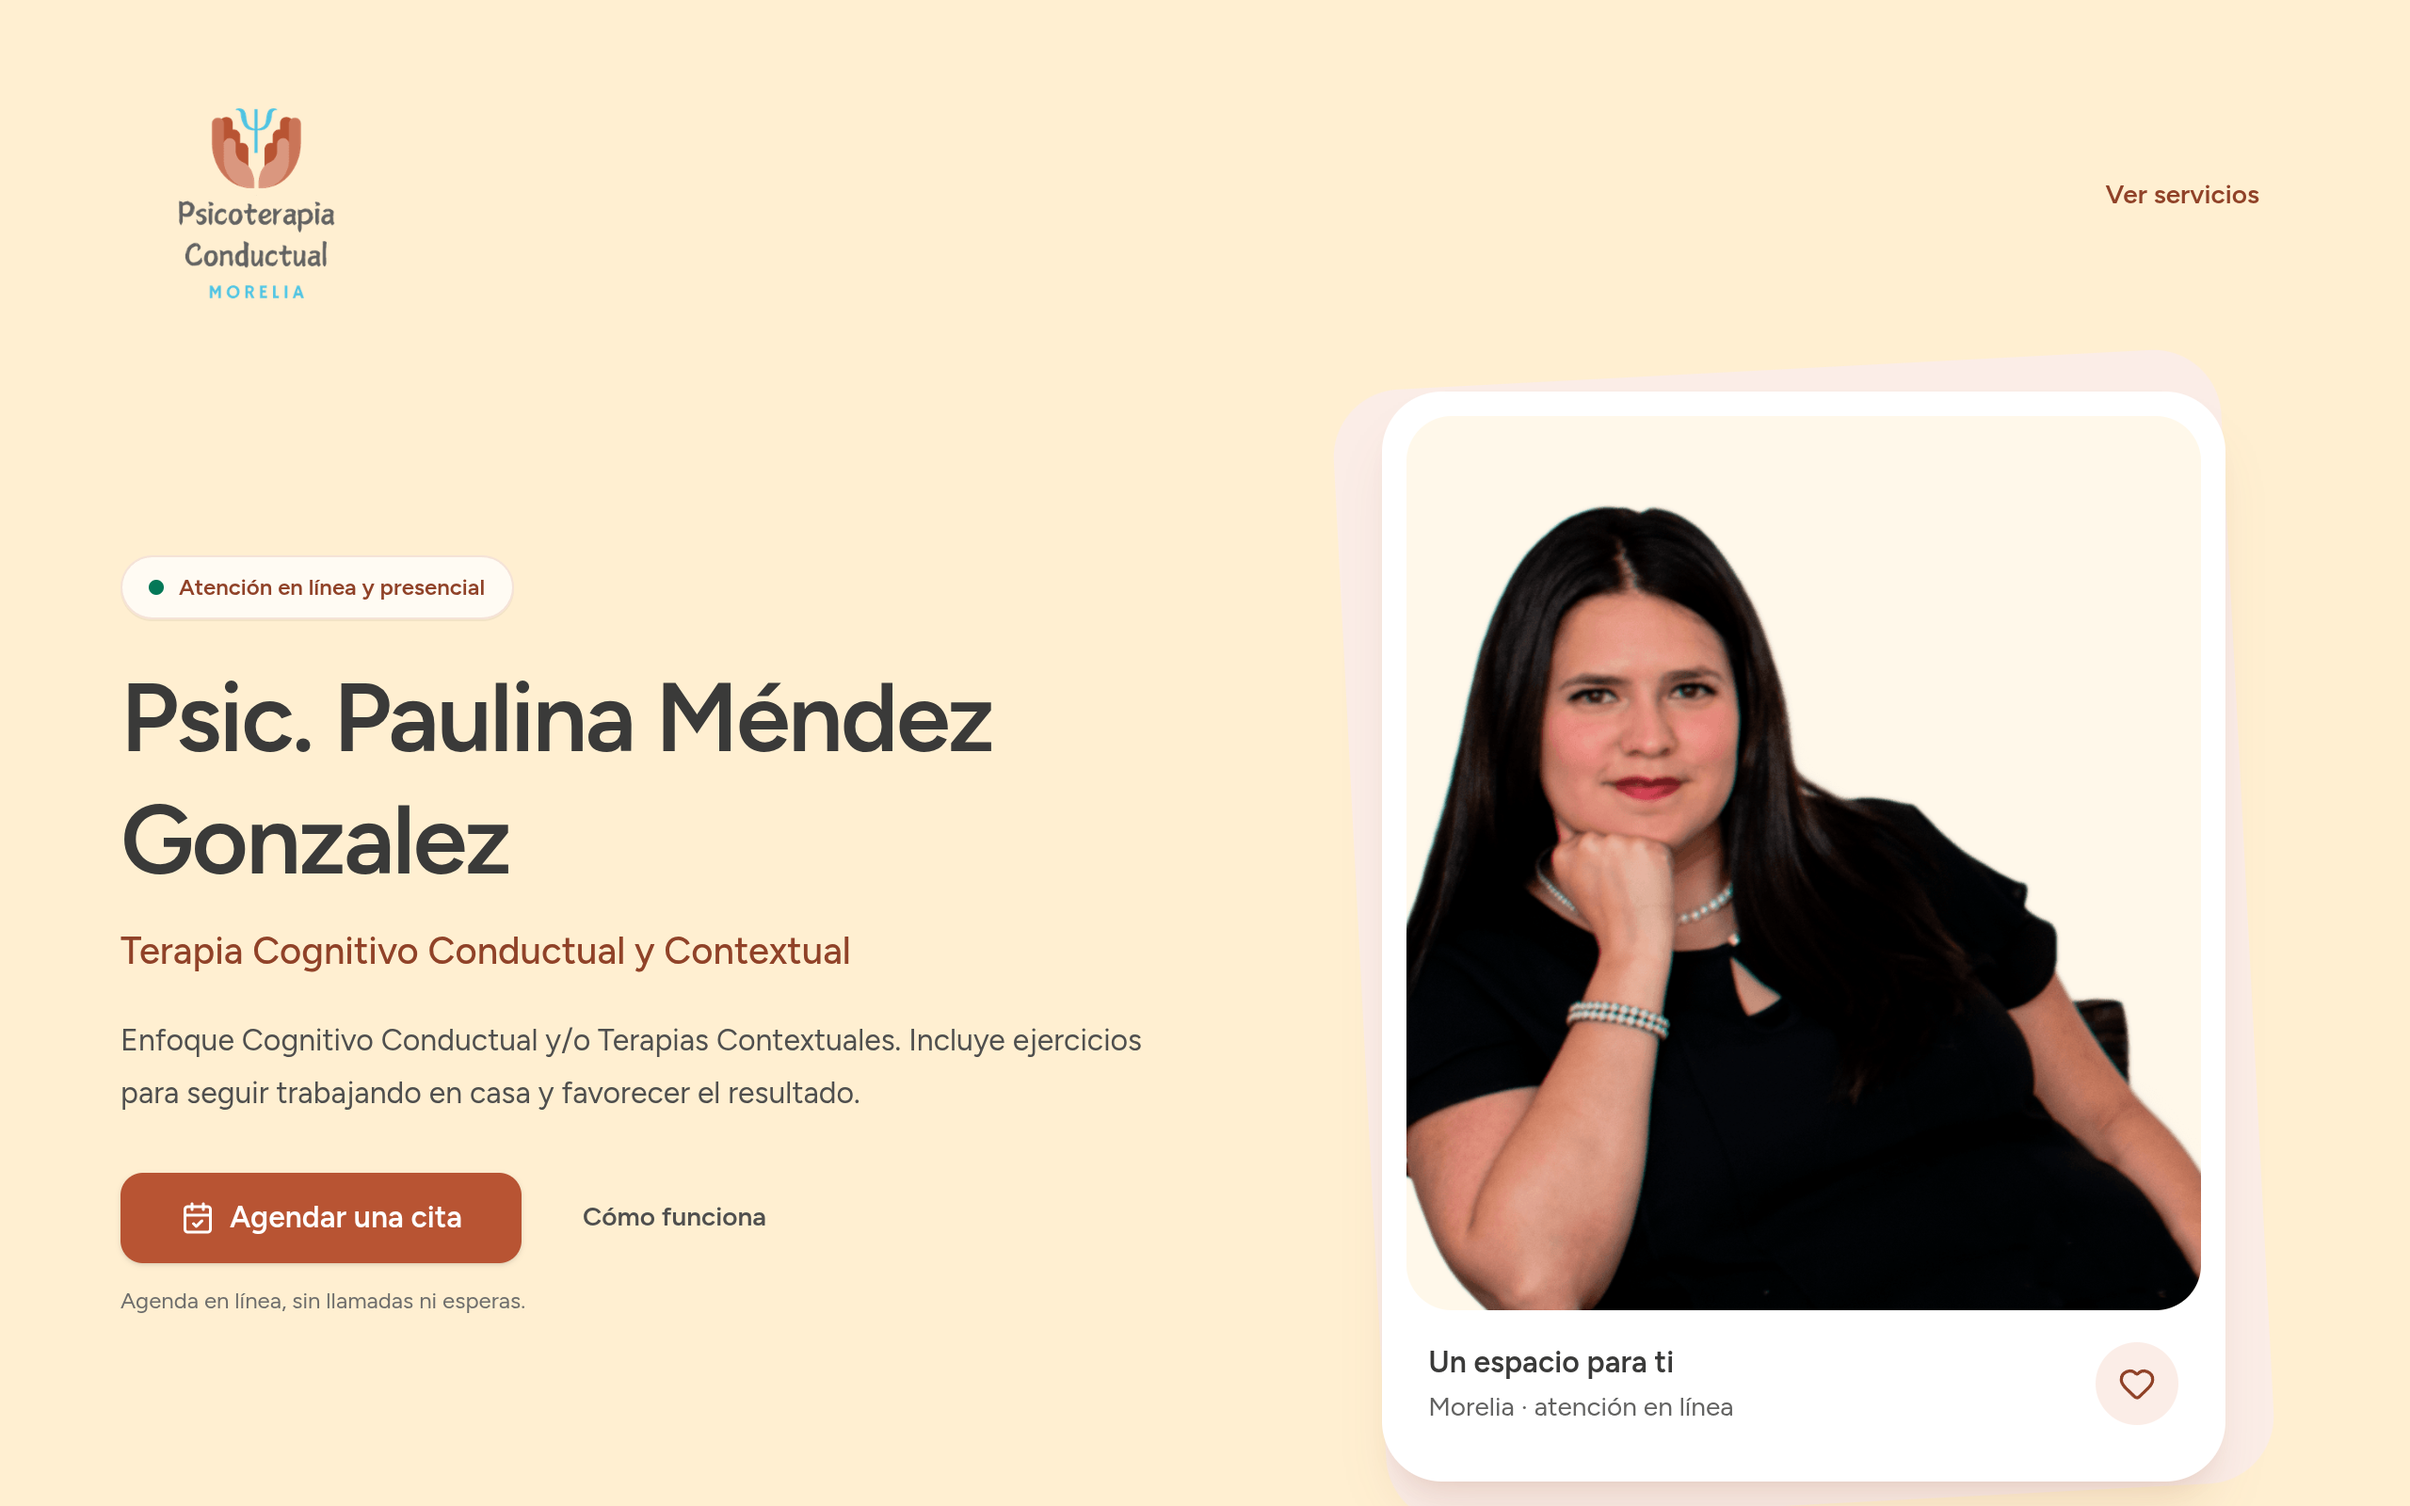
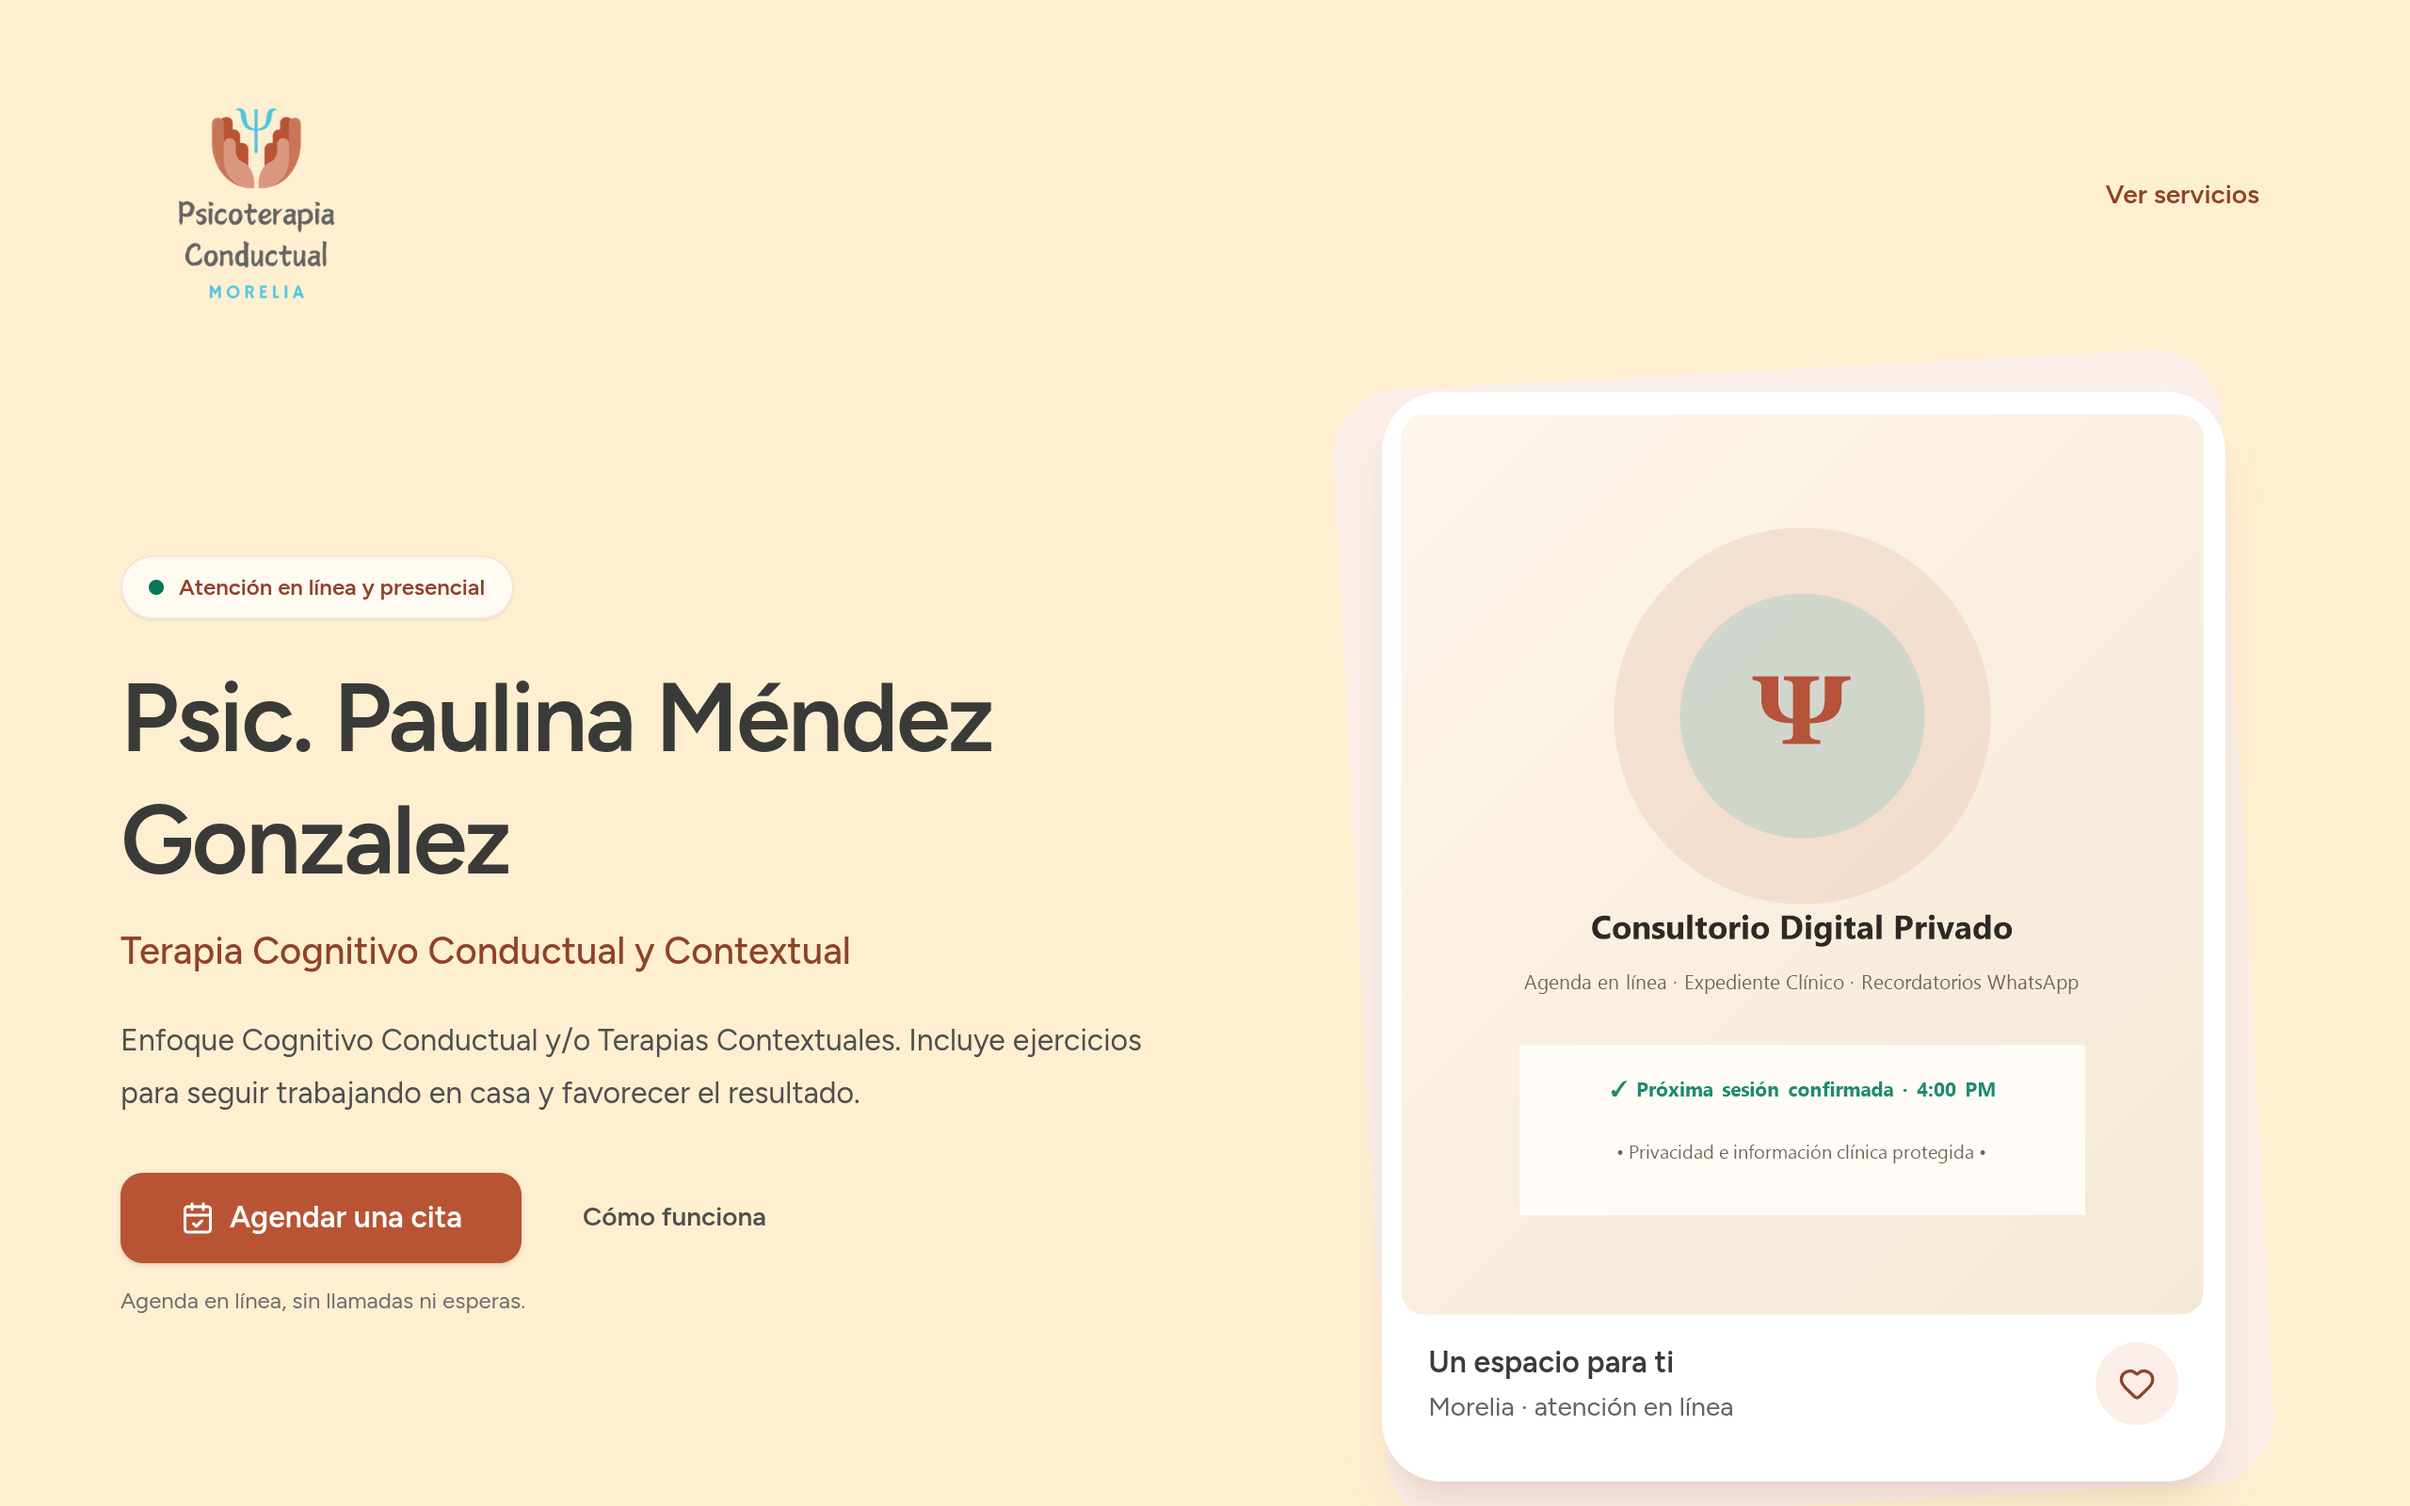
privacy(psicoterapia): oculta foto personal de la psicologa en captura y visor por privacidad

Changed region(s): [[0.5625, 0.3125, 0.9375, 0.875]]

diff --git a/index.html b/index.html
@@ -1460,7 +1460,7 @@
         },
         'psicoterapia-conductual': {
           filterGroup: 'profesionales',
-          backdrop: 'https://images.unsplash.com/photo-1573497620053-ea5300f94f21?auto=format&fit=crop&w=900&q=80',
+          backdrop: 'https://images.unsplash.com/photo-1497366216548-37526070297c?auto=format&fit=crop&w=900&q=80',
           liveToast: '📱 Recordatorio de sesión enviado a paciente por WhatsApp'
         },
         'escalera-britania': {

diff --git a/opcion-5.html b/opcion-5.html
@@ -1460,7 +1460,7 @@
         },
         'psicoterapia-conductual': {
           filterGroup: 'profesionales',
-          backdrop: 'https://images.unsplash.com/photo-1573497620053-ea5300f94f21?auto=format&fit=crop&w=900&q=80',
+          backdrop: 'https://images.unsplash.com/photo-1497366216548-37526070297c?auto=format&fit=crop&w=900&q=80',
           liveToast: '📱 Recordatorio de sesión enviado a paciente por WhatsApp'
         },
         'escalera-britania': {

diff --git a/visual-fx.js b/visual-fx.js
@@ -31,6 +31,7 @@
     },
     'psicoterapia-conductual': {
       screenshot: 'assets/screenshots/psicoterapia-conductual.png',
+      allowIframe: false,
       shortPitch: 'Lleva tu consultorio en el celular: tus pacientes agendan solos, llenas su expediente rápido y mandas recordatorios automáticos.',
       visualKpis: ['📱 Se Instala en tu Celular', '📝 Expediente Rápido', '⏰ Recordatorios Automáticos']
     },
